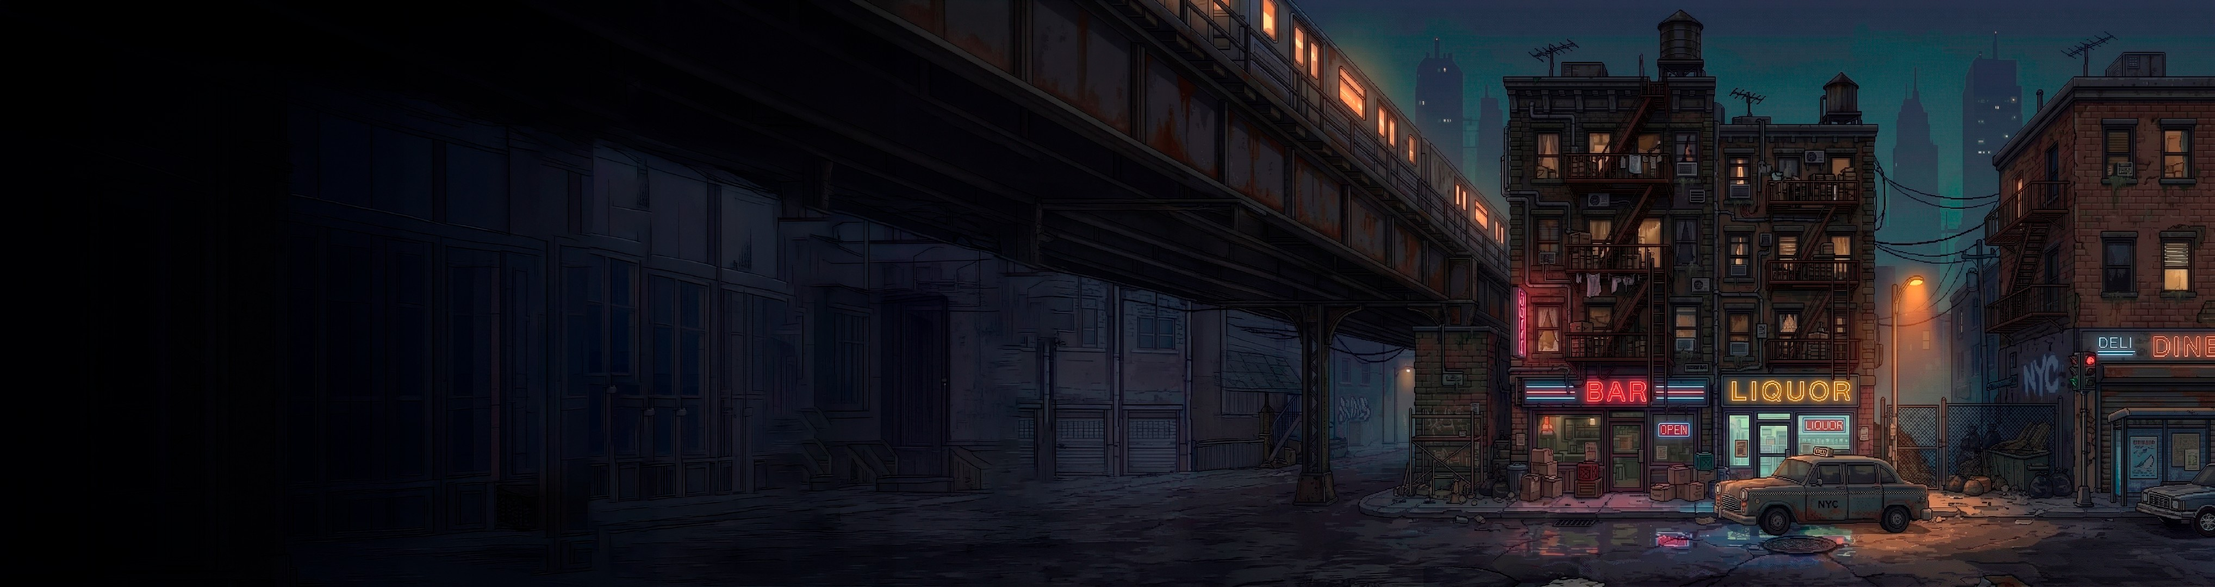
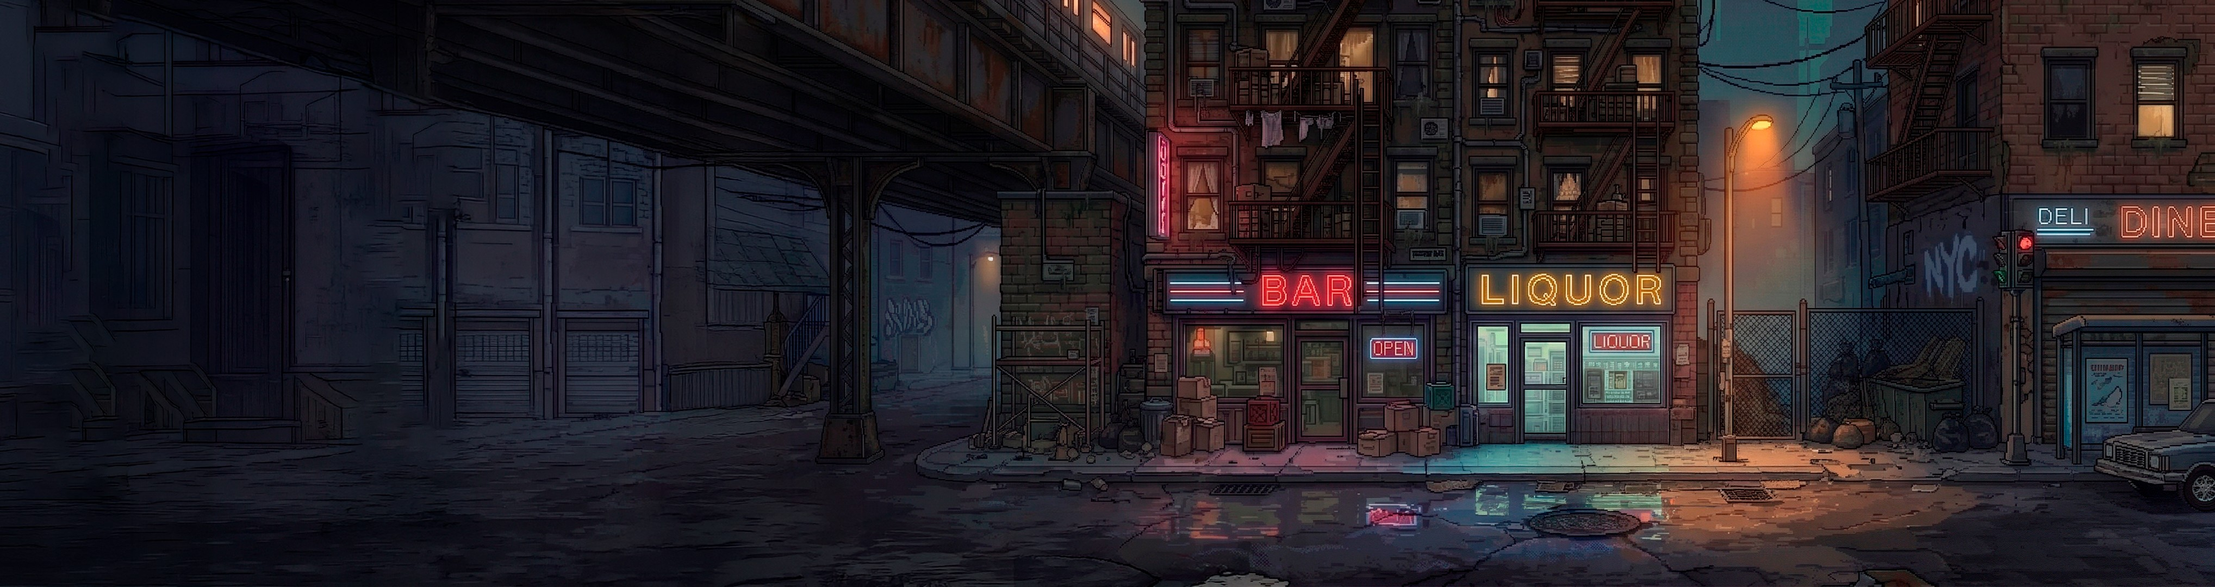
Story: per-location camera zoom 0.8 so fighters match the reference proportions; new street bg/foreground/car from updated art; train and bar on the same scale

diff --git a/index.html b/index.html
@@ -2703,7 +2703,7 @@ const SDIFF=[
 // [картинка, x, y, {pf — параллакс}] в координатах мира (картинки переднего плана — в масштабе фона, на экран ×0.5).
 // kind 'in' — коридор, собранный из стен-ассетов одной высоты (масштаб SI), потолок с карнизом, пол рисуется.
 const ROOMS={
-  apt:{name:'КВАРТИРА 3B',kind:'img',bg:'loc_apt.jpg',w:1043,gy:470,al:40,ar:1003,
+  apt:{name:'КВАРТИРА 3B',kind:'img',bg:'loc_apt.jpg',w:1043,gy:470,al:40,ar:1003,z:.8,
     fgs:[['apt_fg_chair',-20,392,{pf:1.18}],['apt_fg_table',720,402,{pf:1.18}]],
     lights:[{x:795,y:112,r:200,c:'255,196,120',a:.28,fl:.006},{x:75,y:338,r:130,c:'140,180,255',a:.26,tv:1}],tint:'rgba(10,8,22,.18)',
     enter:['Нью-Йорк. Январь девяносто седьмого. Снег падал на город, как пепел на пьяницу, уснувшего с сигаретой.',
@@ -2720,7 +2720,7 @@ const ROOMS={
       {id:'pills',x0:722,x1:852,label:'ванная',heal:40,gone:1,lines:['В ванной, за зеркалом, — обезболивающее. После боёв я жил на нём неделями. Две таблетки — и боль становится чужой.']},
       {id:'door',x0:880,x1:966,label:'выйти',to:'hall',at:150,face:1,need:'note',locked:['Уйти просто так? Сначала понять, кто это сделал. Осмотрись.']},
       {id:'coat',x0:968,x1:1040,label:'вешалка',once:1,lines:['Её куртка на вешалке. Значит, уводили без неё — в одной футболке, по такому морозу.']}]},
-  hall:{name:'КОРИДОР',kind:'in',w:2649,gy:486,wb:472,floor:'tile',tint:'rgba(12,18,24,.40)',
+  hall:{name:'КОРИДОР',kind:'in',w:2649,gy:486,wb:472,z:.8,floor:'tile',tint:'rgba(12,18,24,.40)',
     walls:[['i_door3b',48],['i_wall_ext'],['i_hall_doors'],['i_meters'],['i_elevator_g',69],['i_firehose'],['i_wall_paper'],['i_wall_fireexit']],
     hang:[['i_fluor',300,150],['i_fluor',1100,150],['i_fluor',1900,150]],
     back:[['i_bags',1470,{by:486}],['i_trashcan',1930,{by:486}]],
@@ -2735,26 +2735,28 @@ const ROOMS={
       {id:'lift',x0:1580,x1:1850,label:'лифт',once:1,lines:['Лифт не работает с восемьдесят девятого. Как и полиция в этом районе.']},
       {id:'pills',x0:1870,x1:2010,label:'мусорное ведро',heal:30,gone:1,lines:['Чья-то заначка за мусорным ведром. Пузырёк обезболивающего. Никто не будет искать.']},
       {id:'exit',x0:2520,x1:2645,label:'выйти на улицу',to:'street',at:140,face:1,once:1,lines:['Пожарный выход. Холод ударил в лицо, как мокрое полотенце.']}]},
-  street:{name:'УЛИЦА',kind:'img',bg:'loc_street.jpg',w:2037,gy:498,al:40,ar:1997,snow:1,tint:'rgba(8,12,26,.10)',
+  street:{name:'УЛИЦА',kind:'img',bg:'loc_street.jpg',w:2037,gy:467,al:40,ar:1997,z:.8,snow:1,tint:'rgba(8,12,26,.10)',
     lights:[{x:170,y:250,r:320,c:'110,140,200',a:.16,cone:1},{x:600,y:300,r:260,c:'110,140,200',a:.10}],
-    fgs:[['street_fg',433.5,79],['street_fg_car',1875.5,469.5]],
+    fgs:[['street_fg',0,0],['street_fg_car',1792.5,433]],
     enter:['Улица встретила меня снегом и неоном. Этот город никогда не спит — он просто лежит с открытыми глазами.'],
     fights:[{x:420,lock:[40,1000],foes:['thug'],pre:['Под эстакадой меня ждали. Ржавый не жалел людей — у него их было больше, чем у меня терпения.']},
-      {x:1180,lock:[1077,2037],foes:['shest','thug'],pre:['Двое вышли из тени у винного. Снег на их плечах не таял.'],post:['Бар «У Ржавого» — в двух шагах. Свет в окне горел, как приглашение на похороны.']}],
+      {x:1300,lock:[1077,2037],foes:['shest','thug'],pre:['Двое вышли из тени у винного. Снег на их плечах не таял.'],post:['Бар «У Ржавого» — в двух шагах. Свет в окне горел, как приглашение на похороны.']}],
     spots:[
-      {id:'porch',x0:760,x1:880,label:'подъезд',once:1,lines:['Под эстакадой всегда темно, даже днём. Поезда гремят над головой, как пустые консервные банки.']},
-      {id:'pills',x0:1385,x1:1465,label:'ящики',heal:35,gone:1,lines:['В ящиках у бара — нетронутый пузырёк обезболивающего. Удача любит тех, кому нечего терять.']},
-      {id:'bar',x0:1470,x1:1540,label:'войти в бар',to:'bar',at:300,face:1},
-      {id:'liquor',x0:1600,x1:1650,label:'винный',once:1,lines:['Винный закрыт. Продавец смотрит из-за решётки и делает вид, что меня здесь нет. Умный продавец.']},
-      {id:'taxi',x0:1660,x1:1780,label:'такси',once:1,lines:['Таксист спал за рулём. Или умер. В этом районе разница небольшая.']},
-      {id:'subway',x0:1930,x1:2030,label:'спуститься в метро',to:'metro',at:120,face:1,need:'boss',locked:['Вход в подземку — за углом. Мне туда, я это чувствовал. Но сначала — бар Ржавого.']}]},
-  bar:{name:'БАР «У РЖАВОГО»',arena:1,w:1634,gy:500,al:236,ar:1398,tint:'rgba(20,10,20,.18)',
+      {id:'porch',x0:180,x1:270,label:'подъезд',once:1,lines:['Под эстакадой всегда темно, даже днём. Поезда гремят над головой, как пустые консервные банки.']},
+      {id:'pills',x0:1065,x1:1135,label:'ящики',heal:35,gone:1,lines:['В ящиках у бара — нетронутый пузырёк обезболивающего. Удача любит тех, кому нечего терять.']},
+      {id:'bar',x0:1180,x1:1250,label:'войти в бар',to:'bar',at:300,face:1},
+      {id:'liquor',x0:1390,x1:1445,label:'винный',once:1,lines:['Винный закрыт. Продавец смотрит из-за решётки и делает вид, что меня здесь нет. Умный продавец.']},
+      {id:'diner',x0:1840,x1:1930,label:'закусочная',once:1,lines:['Закусочная работает круглые сутки. За стеклом — двое копов над пончиками. Им не до меня. Им ни до кого.']},
+      {id:'subway',x0:1940,x1:2030,label:'спуститься в метро',to:'metro',at:120,face:1,need:'boss',locked:['Вход в подземку — за углом. Мне туда, я это чувствовал. Но сначала — бар Ржавого.']}]},
+  bar:{name:'БАР «У РЖАВОГО»',kind:'img',bg:'../arena_bar.jpg',w:1634,gy:500,al:236,ar:1398,z:.8,tint:'rgba(20,10,20,.18)',
+    fgs:[['../arena_bar_fg',1387,419,{s:540/1184}]], // ящик и бочка арены бара (картинка в масштабе 1184 по высоте)
+    lights:[{x:298,y:142,r:95,c:'255,214,140',a:.3,fl:.004,cone:1},{x:505,y:146,r:95,c:'255,220,150',a:.3,fl:.012,cone:1},{x:720,y:142,r:95,c:'205,255,190',a:.26,fl:.004,cone:1}],
     enter:['Бар «У Ржавого». Дым, джаз из сломанного автомата и двадцать глаз, которые сразу поняли, зачем я пришёл.'],
     fights:[{x:420,lock:[0,1634],foes:['boss'],pre:['— Конь, — Ржавый оскалился. — Чемпион подвалов. Пришёл за своей ламой? Она уже далеко, приятель.','— Тогда ты скажешь мне, где именно.'],
       post:['Ржавый сплюнул кровь вместе с правдой.','— Её увезли... в метро. Канал-стрит, заброшенный перегон. Там лаборатория Дока...','— Док не отпустит её живой, Конь. Никого не отпускает.',
         'Я оставил его на полу. Ночь только начиналась.'],then:()=>{STY.flags.boss=1;}}],
-    spots:[{id:'out',x0:236,x1:340,label:'выйти на улицу',to:'street',at:1500,face:1}]},
-  metro:{name:'СТАНЦИЯ «КАНАЛ-СТРИТ»',kind:'img',bg:'loc_metro.jpg',w:2037,gy:398,al:60,ar:1990,tint:'rgba(6,14,10,.12)',train:1,
+    spots:[{id:'out',x0:236,x1:340,label:'выйти на улицу',to:'street',at:1215,face:1}]},
+  metro:{name:'СТАНЦИЯ «КАНАЛ-СТРИТ»',kind:'img',bg:'loc_metro.jpg',w:2037,gy:400,al:60,ar:1990,z:.8,tint:'rgba(6,14,10,.12)',train:241,
     lights:[{x:722,y:44,r:240,c:'255,240,170',a:.22,fl:.01},{x:1395,y:44,r:240,c:'255,240,170',a:.2,fl:.03}],
     enter:['Подземка. Воздух здесь старше города — пахнет ржавчиной, мочой и электричеством.','Где-то в этих туннелях — лаборатория Дока. И она.'],
     fights:[{x:450,lock:[60,1020],foes:['shest','thug'],pre:['На платформе меня ждали. Ржавый всё-таки успел позвонить.']},
@@ -2768,6 +2770,23 @@ const ROOMS={
 };
 // после стычки с охраной Дока — открыт туннель (флаг ставит стычка)
 ROOMS.metro.fights[1].then=()=>{STY.flags.guard=1;};
+// Зум локации z: всё рисуется ×z (бойцы ростом как на референсах — 151 px при росте картинки 540). Комнаты выше заданы
+// в экранных пикселях; здесь — один раз — переводятся в единицы мира (÷z), в которых живут бойцы, удары и камера.
+(function(){
+  const zf=id=>ROOMS[id].z||1;
+  for(const R of Object.values(ROOMS)){const z=R.z||1;if(z===1)continue;const d=v=>v/z;
+    R.w=d(R.w);R.gy=d(R.gy);if(R.wb)R.wb=d(R.wb);R.al=d(R.al||50);R.ar=d(R.ar||R.w*z-50);if(R.train)R.train=d(R.train);
+    for(const s of R.spots||[]){s.x0=d(s.x0);s.x1=d(s.x1);}
+    for(const f of R.fights||[]){f.x=d(f.x);f.lock=f.lock.map(d);}
+    for(const l of R.lights||[]){l.x=d(l.x);l.y=d(l.y);l.r=d(l.r);}
+    for(const p of R.fgs||[]){p[1]=d(p[1]);p[2]=d(p[2]);}
+    for(const p of R.hang||[]){p[1]=d(p[1]);p[2]=d(p[2]);}
+    for(const p of R.back||[]){p[1]=d(p[1]);if(p[2]&&p[2].by)p[2].by=d(p[2].by);}
+  }
+  for(const R of Object.values(ROOMS))for(const s of R.spots||[])if(s.to)s.at/=zf(s.to);
+})();
+const RZ=()=>(ROOMS[STY.room]&&ROOMS[STY.room].z)||1; // зум текущей локации
+const VW=()=>W/RZ(); // ширина экрана в единицах мира
 // ---------- запуск, локации, враги ----------
 function storyStart(di){
   G.mode=7;G.arena=0;G.sel=[4,6];G.tut=null;STY.D=SDIFF[di===undefined?1:di];
@@ -2777,14 +2796,14 @@ function storyStart(di){
     title:{a:'ГЛАВА ПЕРВАЯ',b:'ПУСТАЯ КВАРТИРА',t:260,max:260},mtrain:{x:-9e3,wait:500},pdm:STY.D.pdm});
   for(const R of Object.values(ROOMS)){for(const L of['hang','back','front','fgs'])for(const p of R[L]||[])simg(p[0]);for(const p of R.walls||[])simg(p[0]);if(R.bg)simgf(R.bg);}
   simg('metro_train');
-  F[0].hp=100;storyRoom('apt',560,1);
+  F[0].hp=100;storyRoom('apt',560/(ROOMS.apt.z||1),1);
 }
 function foeGone(){Object.assign(F[1],{gone:true,alpha:0,state:'idle',x:-9e3,vx:0,vy:0,y:GY,combo:0,gr:null,move:null});}
 function storyRoom(id,x,face){
   const R=ROOMS[id],p=F[0];STY.room=id;WW=R.w;GY=R.gy;AL=R.al||50;AR=R.ar||R.w-50;
   Object.assign(p,{x,y:GY,vx:0,vy:0,state:'idle',stateT:0,facing:face||1,move:null,gr:null,combo:0,dm:STY.pdm,alpha:1,crouching:false});
   foeGone();STY.lock=null;STY.fight=null;STY.koT=0;projs=[];parts=[];hitstop=0;
-  camX=clamp(x-W*.45,0,Math.max(0,WW-W));
+  camX=clamp(x-VW()*.45,0,Math.max(0,WW-VW()));
   STY.cp={room:id,x,face,hp:p.hp};STY.label={s:R.name,t:150};
   if(!STY.seen[id]){STY.seen[id]=1;if(R.enter)storyCap(R.enter);}
 }
@@ -2851,9 +2870,9 @@ function storyTick(){
   return false;
 }
 function storyCam(){
-  const S=STY,pl=F[0];let lo=0,hi=Math.max(0,WW-W);
-  if(S.lock){lo=S.lock[0];hi=Math.max(lo,S.lock[1]-W);}
-  const t=clamp(pl.x-W*.45+pl.facing*50,lo,hi);camX+=(t-camX)*.1;camX=clamp(camX,lo,hi);
+  const S=STY,pl=F[0],vw=VW();let lo=0,hi=Math.max(0,WW-vw);
+  if(S.lock){lo=S.lock[0];hi=Math.max(lo,S.lock[1]-vw);}
+  const t=clamp(pl.x-vw*.45+pl.facing*50,lo,hi);camX+=(t-camX)*.1;camX=clamp(camX,lo,hi);
 }
 // ---------- отрисовка ----------
 function spr(p,base){ // проп [имя, x, опции]; base — низ по умолчанию
@@ -2865,7 +2884,7 @@ function spr(p,base){ // проп [имя, x, опции]; base — низ по 
 const FLOORS={};
 function floorCanvas(R){ // пол рисуется один раз мелкими «пикселями» (×3) под стиль ассетов
   if(FLOORS[R.name])return FLOORS[R.name];
-  const k=3,top=R.kind==='out'?R.bb:R.wb,c=document.createElement('canvas');c.width=Math.ceil(R.w/k);c.height=Math.ceil((H-top)/k);
+  const k=3,top=R.kind==='out'?R.bb:R.wb,c=document.createElement('canvas');c.width=Math.ceil(R.w/k);c.height=Math.ceil((H/(R.z||1)-top)/k);
   const x=c.getContext('2d'),w=c.width,h=c.height;let seed=R.w;const rnd=()=>(seed=(seed*16807)%2147483647)/2147483647;
   if(R.floor==='wood'){
     for(let y=0;y<h;y++){const t=y/h,v=34+t*22|0;x.fillStyle=`rgb(${v+14},${v},${v-10})`;x.fillRect(0,y,w,1);}
@@ -2900,7 +2919,7 @@ function drawTrain(R){
 function storyBack(cx){
   const R=ROOMS[STY.room];
   if(R.arena){drawArena();return;}
-  if(R.kind==='img'){const im=simgf(R.bg);if(imgOk(im))ctx.drawImage(im,0,0,R.w,H);return;} // цельная локация-картинка
+  if(R.kind==='img'){const im=simgf(R.bg);if(imgOk(im))ctx.drawImage(im,0,0,R.w,H/RZ());return;} // цельная локация-картинка
   ctx.imageSmoothingEnabled=false;
   if(R.kind==='out'){
     ctx.save();ctx.translate(cx,0);
@@ -2917,27 +2936,28 @@ function storyBack(cx){
     let x=0,top=R.wb;
     for(const[n,ct=0]of R.walls){ // по 3 px с боков срезаются — у ассетов там обводка, на стыке она давала шов
       const im=simg(n);if(!imgOk(im)){x+=260;continue;}
-      const e=3,sw=im.naturalWidth-e*2,sh=im.naturalHeight-ct,w=sw*SI,h=sh*SI;top=Math.min(top,R.wb-h);
+      const e=3,sw=im.naturalWidth-e*2,sh=im.naturalHeight-ct,w=sw*SI/RZ(),h=sh*SI/RZ();top=Math.min(top,R.wb-h);
       ctx.drawImage(im,e,ct,sw,sh,x,R.wb-h,w+.6,h);x+=w;
     }
     // потолок: тёмная полоса и карниз по верху стен (без растянутых текстур — без склеек)
     const ct=Math.round(top);
     const cg=ctx.createLinearGradient(0,0,0,ct);cg.addColorStop(0,'#060608');cg.addColorStop(1,'#1a1a1d');ctx.fillStyle=cg;ctx.fillRect(0,0,WW,ct);
     ctx.fillStyle='#2c2a27';ctx.fillRect(0,ct-7,WW,7);ctx.fillStyle='#48443e';ctx.fillRect(0,ct-7,WW,2);ctx.fillStyle='rgba(0,0,0,.55)';ctx.fillRect(0,ct,WW,5);
-    for(const p of R.hang||[])spr([p[0],p[1],{top:p[2],s:SI}],{});
+    for(const p of R.hang||[])spr([p[0],p[1],{top:p[2],s:SI/RZ()}],{});
     const fc=floorCanvas(R);ctx.drawImage(fc,0,R.wb,fc.width*3,fc.height*3);
     ctx.fillStyle='rgba(0,0,0,.45)';ctx.fillRect(0,R.wb,WW,3);
   }
-  for(const p of R.back||[])spr(p,{by:R.kind==='out'?R.bb+12:R.wb+8,s:R.kind==='out'?1:SI});
+  for(const p of R.back||[])spr(p,{by:R.kind==='out'?R.bb+12:R.wb+8,s:R.kind==='out'?1:SI/RZ()});
   ctx.imageSmoothingEnabled=true;
 }
 function storyFront(cx){
   const R=ROOMS[STY.room];
   if(R.arena){const A=ARENAS[0],r=A.fgr;if(imgOk(A.fg))ctx.drawImage(A.fg,r[0]*WW/3584,r[1]*H/1184,r[2]*WW/3584,r[3]*H/1184);}
-  ctx.fillStyle=R.tint||'rgba(14,16,30,.4)';ctx.fillRect(cx-20,0,W+40,H);
+  const vw=VW(),vh=H/RZ();
+  ctx.fillStyle=R.tint||'rgba(14,16,30,.4)';ctx.fillRect(cx-20,0,vw+40,vh);
   ctx.save();ctx.globalCompositeOperation='lighter';
   (R.lights||[]).forEach((l,i)=>{
-    if(l.x<cx-l.r||l.x>cx+W+l.r)return;
+    if(l.x<cx-l.r||l.x>cx+vw+l.r)return;
     if(l.off>0)l.off--;else if(l.fl&&Math.random()<l.fl)l.off=3+Math.random()*10|0;
     let v=.85+.08*Math.sin(frame*.07+i)+(l.neon?.07*Math.sin(frame*.31+i*2):0);
     if(l.tv)v*=.6+.4*Math.abs(Math.sin(frame*.23+Math.sin(frame*.05)*3));
@@ -2955,16 +2975,16 @@ function storyFront(cx){
   for(const p of R.front||[]){const o=p[2]||{},pf=o.pf||1.3;spr([p[0],p[1]-cx*(pf-1),o],{by:H+40,s:R.kind==='out'?1.15:SI*1.15});}
   ctx.filter='none';ctx.imageSmoothingEnabled=true;
   // передние планы цельных локаций (картинки в масштабе фона 1080 → на экран ×0.5)
-  for(const[n,x,y,o]of R.fgs||[]){const im=simg(n);if(!imgOk(im))continue;const pf=(o&&o.pf)||1;ctx.drawImage(im,x-cx*(pf-1),y,im.naturalWidth/2,im.naturalHeight/2);}
+  for(const[n,x,y,o]of R.fgs||[]){const im=simg(n);if(!imgOk(im))continue;const pf=(o&&o.pf)||1,k=((o&&o.s)||.5)/RZ();ctx.drawImage(im,x-cx*(pf-1),y,im.naturalWidth*k,im.naturalHeight*k);}
   if(R.train)drawMetroTrain(R);
 }
 // поезд метро проносится по путям перед платформой: гул, тряска, фары
 function drawMetroTrain(R){
   const T=STY.mtrain,im=simg('metro_train');if(!imgOk(im))return;
-  const w=im.naturalWidth/2,h=im.naturalHeight/2;
+  const w=im.naturalWidth*.5/RZ(),h=im.naturalHeight*.5/RZ(); // y — верх поезда по референсу (R.train)
   if(T.x<-8e3){if(--T.wait<=0){T.x=-w-200;T.wait=1100+Math.random()*900;snd('roar');}return;}
-  T.x+=26;shake=Math.max(shake,3.5);if(frame%9===0)snd('fall');
-  const y=514-h;ctx.drawImage(im,T.x,y,w,h);
+  T.x+=30;shake=Math.max(shake,3.5);if(frame%9===0)snd('fall');
+  ctx.drawImage(im,T.x,R.train,w,h);
   if(T.x>R.w+200)T.x=-9e3;
 }
 function storyScreenFx(){
@@ -3007,7 +3027,7 @@ function storyHud(){
   if(pl.combo>=2&&!en.gone)txt(`${pl.combo} УДАРОВ`,30,108,26,'#e8c060','left');
   if(S.label){ctx.globalAlpha=Math.min(1,S.label.t/30);txt(S.label.s,W/2,44,20,'#efe6c8','center');ctx.globalAlpha=1;}
   if(S.near&&!S.cap.length&&!S.fade){
-    const x=pl.x-camX,y=pl.y-232,t=`${ctlLabel('g')} — ${S.near.label}`;ctx.font='bold 14px Arial';const w=ctx.measureText(t).width+20;
+    const z=RZ(),x=(pl.x-camX)*z,y=(pl.y-232)*z,t=`${ctlLabel('g')} — ${S.near.label}`;ctx.font='bold 14px Arial';const w=ctx.measureText(t).width+20;
     ctx.fillStyle='rgba(10,10,14,.75)';ctx.fillRect(x-w/2,y-18,w,26);ctx.strokeStyle='rgba(239,230,200,.7)';ctx.strokeRect(x-w/2,y-18,w,26);
     txt(t,x,y,14,'#efe6c8','center',true);
   }
@@ -3244,7 +3264,7 @@ function render(){
   ctx.save();
   if(shake>.5){ctx.translate((Math.random()-.5)*shake,(Math.random()-.5)*shake);shake*=.85;}
   const menu=G.phase==='menu'||G.phase==='select'||G.phase==='stage'||G.phase==='net'||G.phase==='keys',cx=Math.round(menu?(WW-W)/2+Math.sin(frame*.004)*(WW-W)/2:camX);
-  ctx.save();ctx.translate(-cx,0);
+  ctx.save();if(G.mode===7&&!menu)ctx.scale(RZ(),RZ());ctx.translate(-cx,0); // прохождение: зум локации
   if(G.mode===7&&!menu)storyBack(cx);else drawArena();
   if(menu){ctx.restore();if(G.phase==='menu')drawMenu();else if(G.phase==='net')drawNet();else if(G.phase==='keys')drawKeys();else if(G.phase==='stage')drawStage();else drawSelect();ctx.restore();return;}
   for(const p of parts)if(p.st){ctx.globalAlpha=clamp(p.life/70,0,.85);ctx.fillStyle=p.col;ctx.fillRect(p.x-p.size*1.3,p.y-p.size*.3,p.size*2.6,p.size*.6);}

diff --git a/tools/story_locs.py b/tools/story_locs.py
@@ -45,7 +45,7 @@ def find(fg, ref, k):  # сдвиг fg внутри ref (оба в одном м
     return best
 jobs = [  # (выход, фон, [(передний план, референс или None)])
     ('apt', 'квартира/квартира.png', [('apt_fg_chair', 'квартира/передний план, кресло.png', None), ('apt_fg_table', 'квартира/передний план, стол.png', None)]),
-    ('street', 'улица/удали авто.png', [('street_fg', 'улица/передний план.png', 'улица/референс локации.png'), ('street_fg_car', 'улица/авто.png', 'улица/референс локации.png')]),
+    ('street', 'улица/улица.png', [('street_fg', 'улица/передний план.png', 'улица/референс размеров локации.png'), ('street_fg_car', 'улица/авто.png', 'улица/референс размеров локации.png')]),
     ('metro', 'метро/метро.png', [('metro_train', 'метро/проезжающий вагон пердний план.png', None)]),
 ]
 for name, bgp, fgs in jobs:
